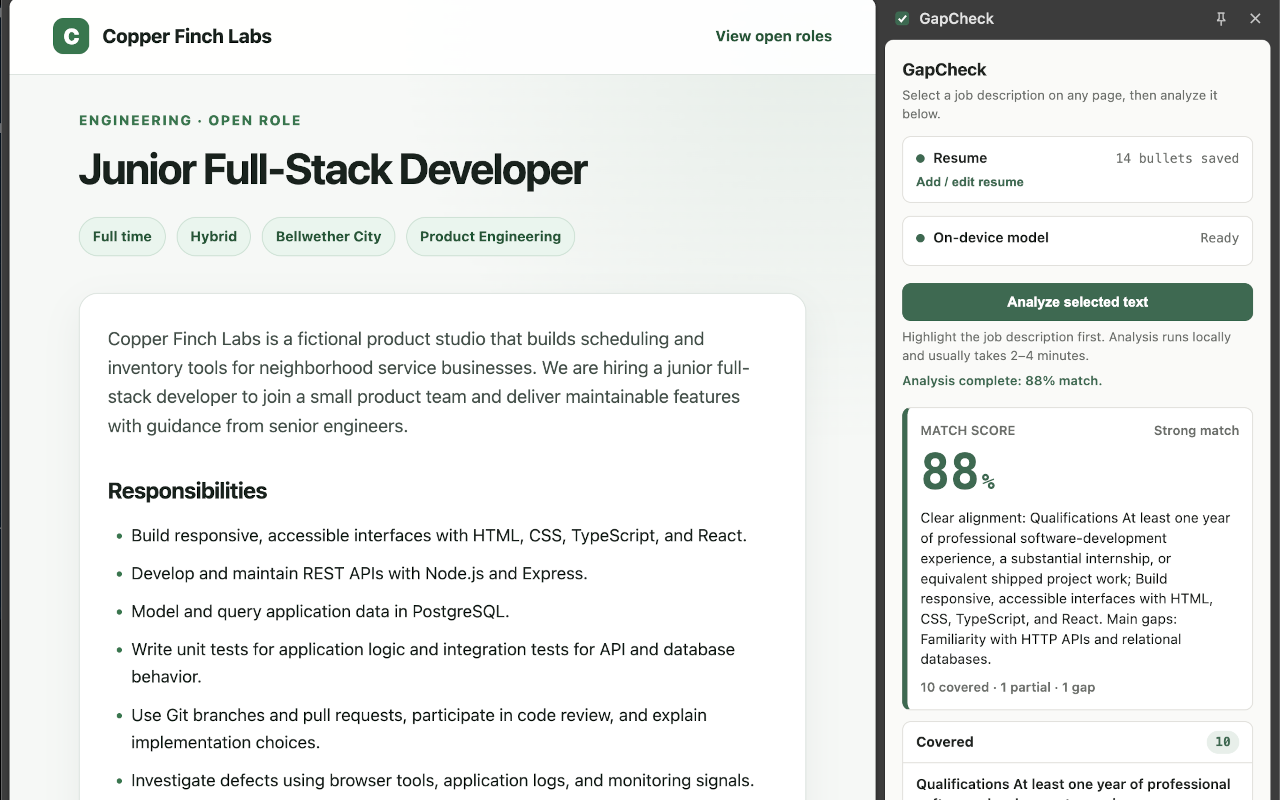
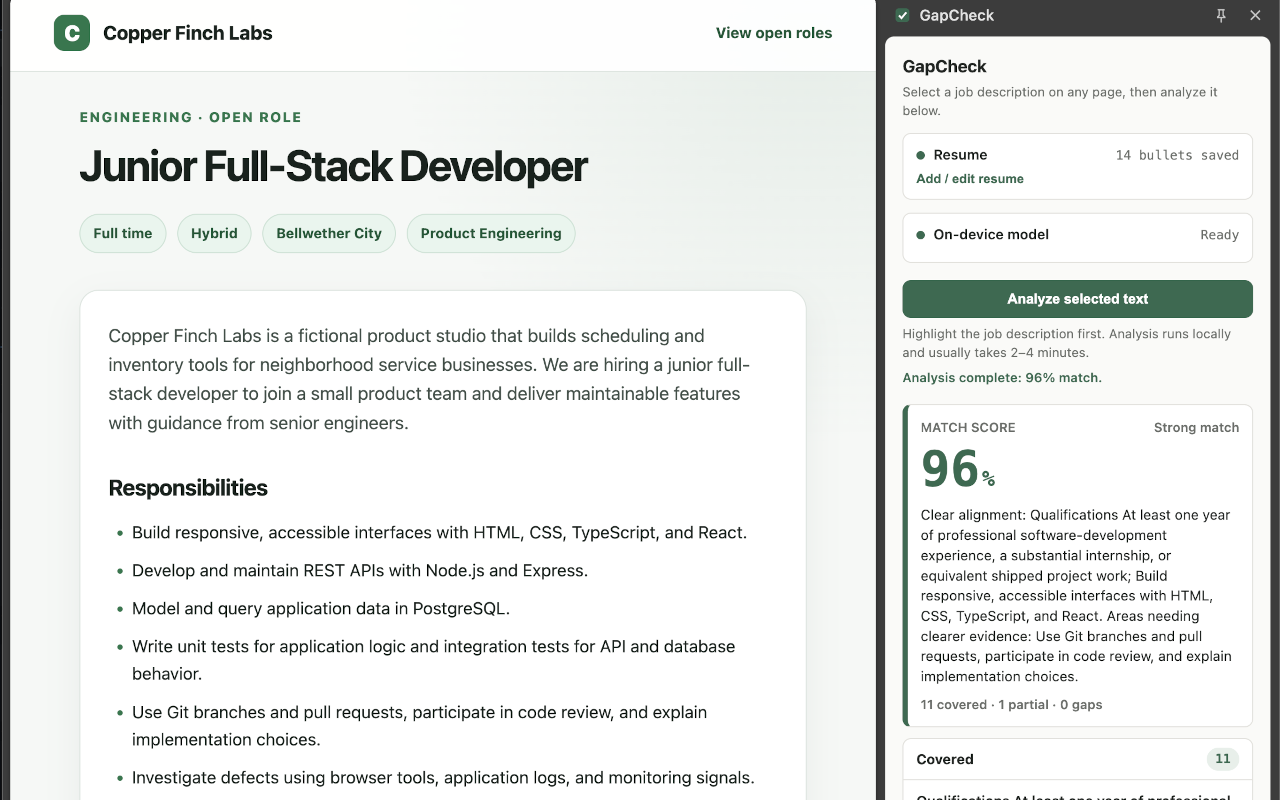
Update analysis screenshot

diff --git a/docs/plan-checklist.md b/docs/plan-checklist.md
@@ -249,7 +249,12 @@ Pin these down on paper/in a schema file first — retrofitting after the pipeli
   - [x] Record the `<all_urls>` decision, `activeTab` alternative, and Store disclosure in [`permissions.md`](permissions.md)
 - [x] Prepare a production package that excludes development-only tests and documentation
 - [x] Validate manifest metadata, icons, versioning, and minimum Chrome requirements
-- [ ] Prepare the store description, screenshots, and required promotional assets
+- [x] Prepare the store description and screenshots; decide on optional promotional assets
+  - [x] Finalize and record the detailed store description
+  - [x] Prepare a current 1280×800 PDF-import screenshot
+  - [x] Recapture the 1280×800 analysis screenshot with the latest scoring behavior
+  - [x] Defer the 440×280 small promotional tile unless the live Dashboard requires it or post-release discovery work warrants it
+  - [x] Skip the optional 1400×560 marquee promotional image for the initial release
 - [ ] Complete privacy disclosures for local resume storage, selected page text, and on-device analysis
   - [x] Draft and verify the public-facing privacy policy in [`../PRIVACY.md`](../PRIVACY.md)
   - [ ] Publish the policy at a stable public URL and complete the Store privacy questionnaire
